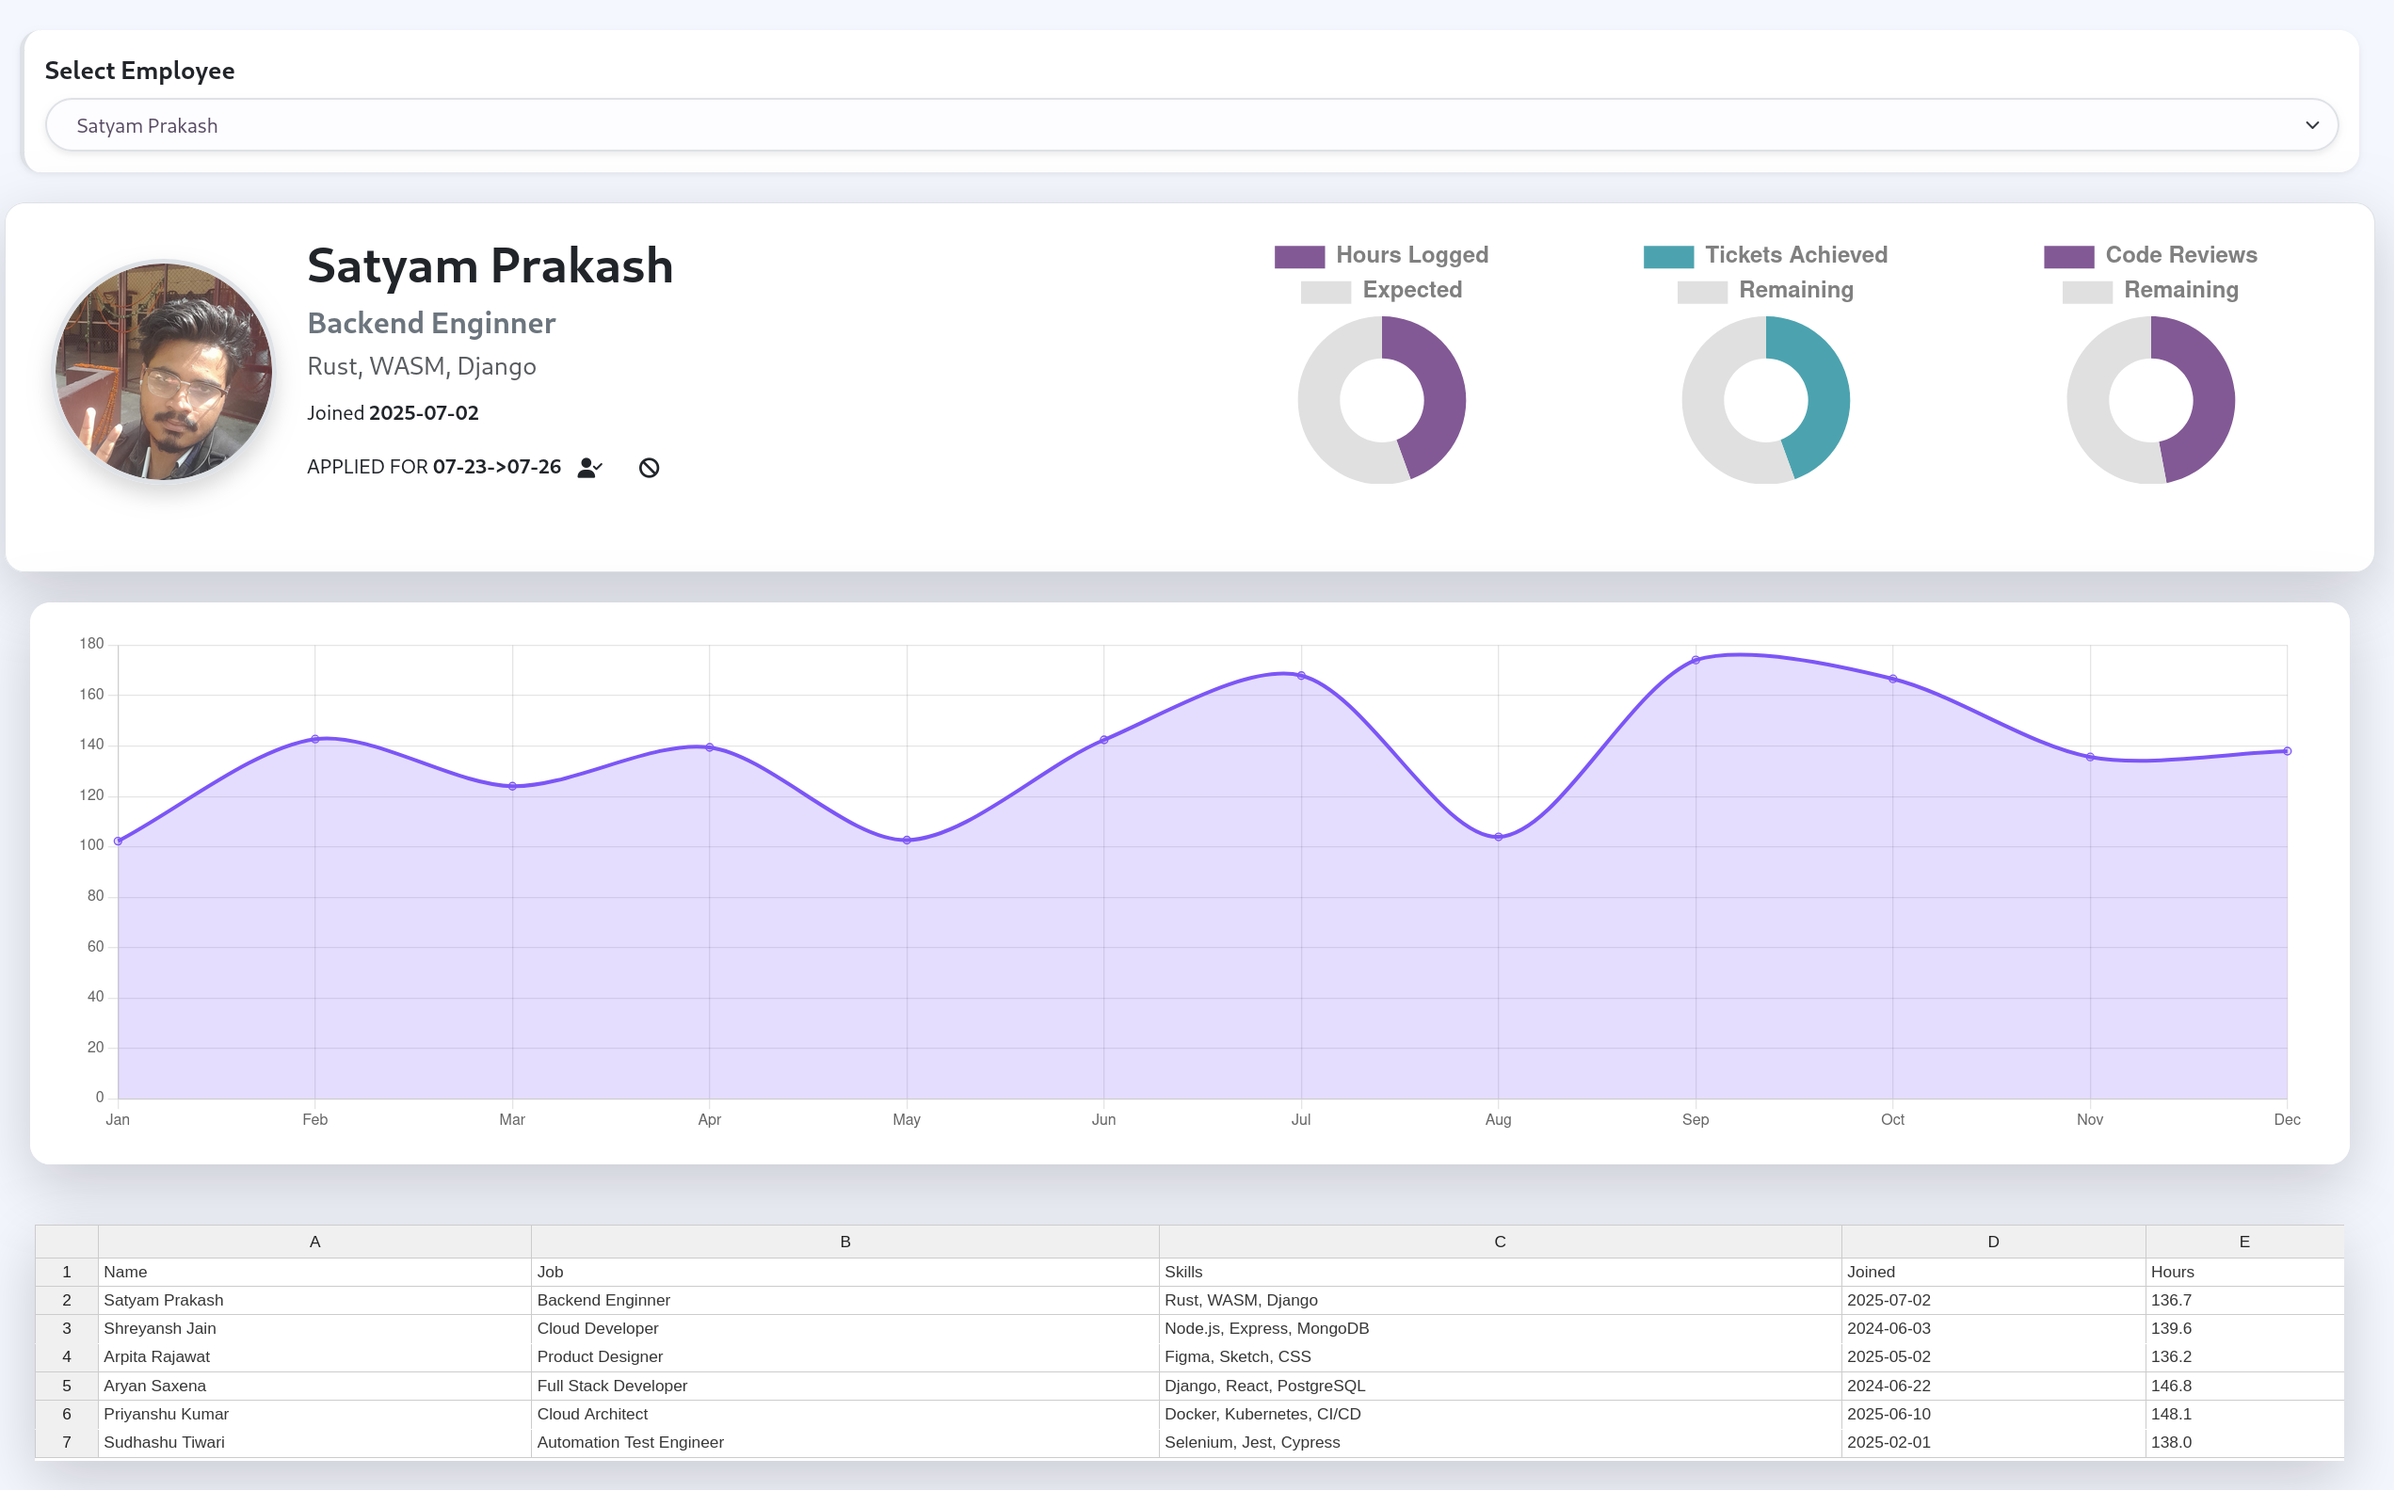
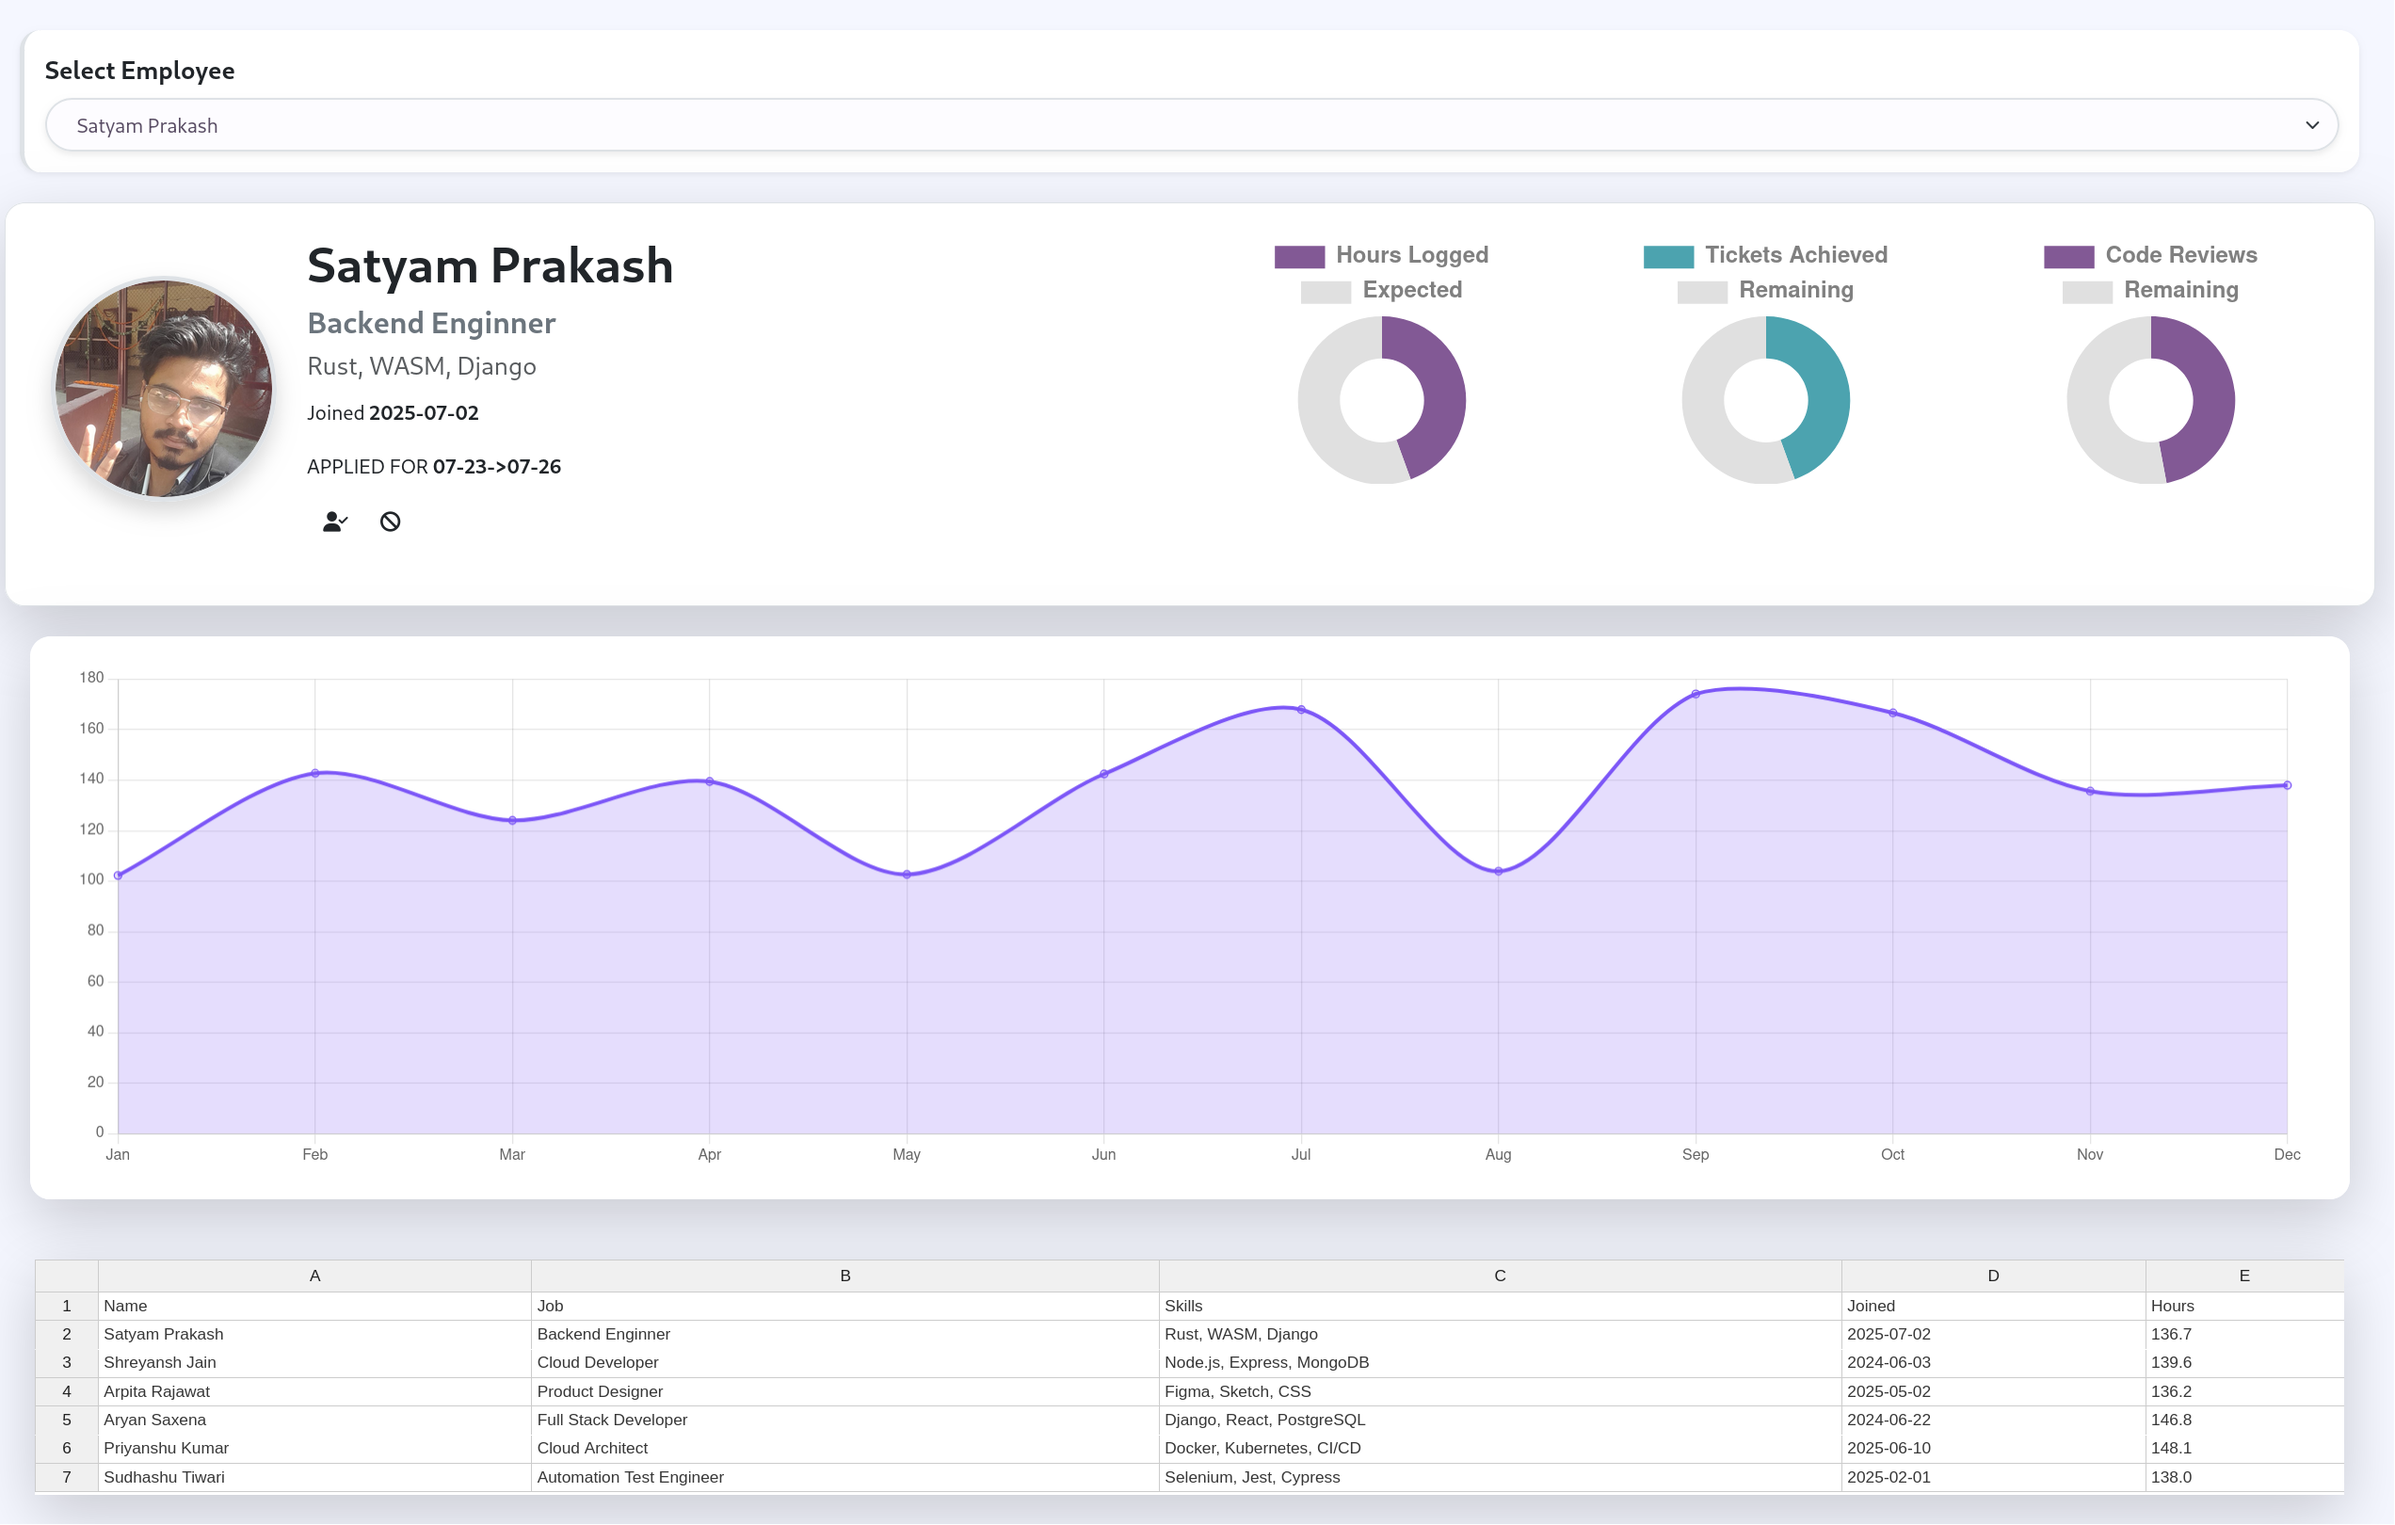
Admin Image Not Changin

diff --git a/README.md b/README.md
@@ -21,12 +21,6 @@ An Attendance Tracker Build with Django, AngularJS, JQuery and Django.
 
 ![settings](./.readme/settings.png)
 
-## Admin
-![admin](./.readme/admin.png)
-
-## Apply Leave
-![applyLeave](./.readme/leave.png)
-
 ## Dummy Image
 ![dummyImage](./.readme/dummy.png)
 
